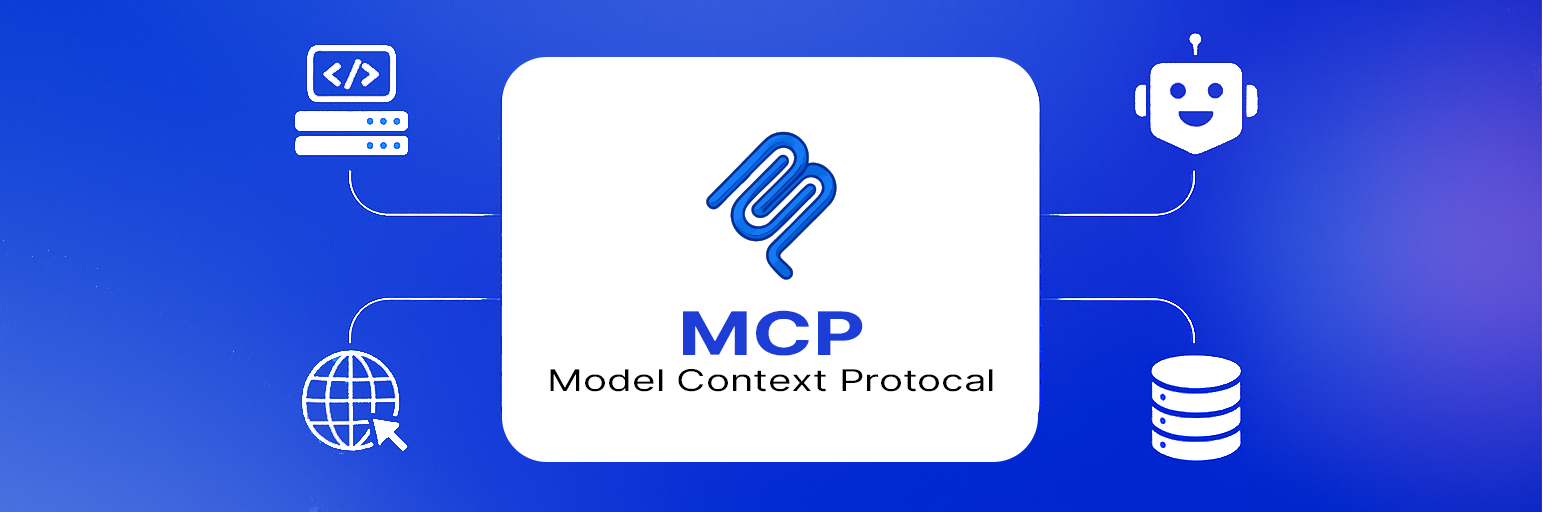
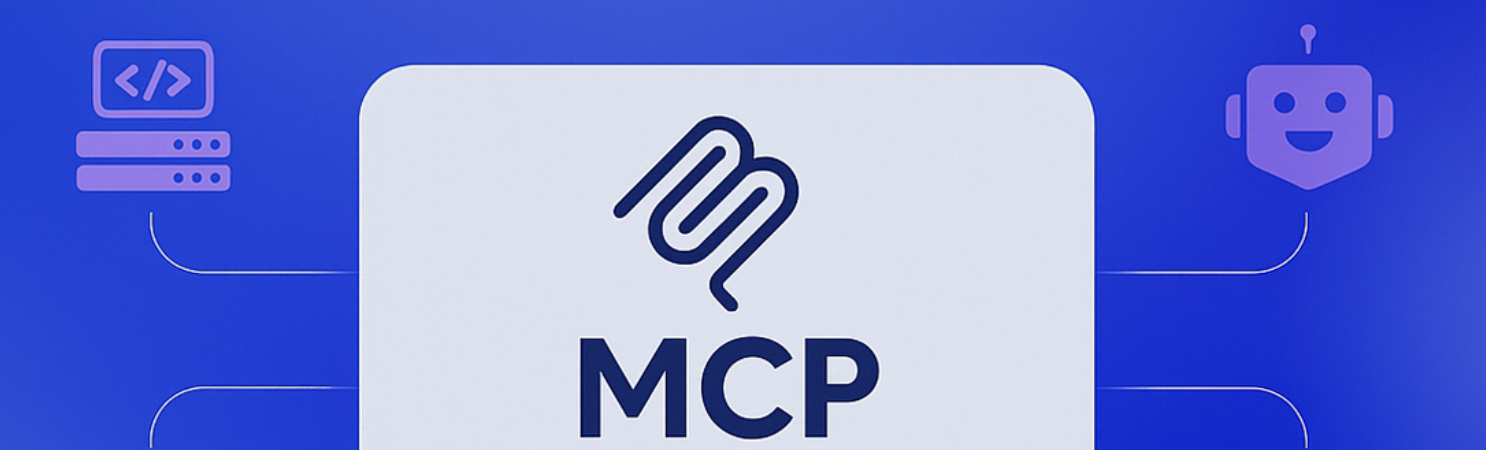
[MCP] Update Mcp Documents and Images (#21720)
* Update documentation

* Updated documentation

* Update Documentation

* doc change

* update description

* again try something

* update

* Update to "MCP Server"

diff --git a/openmetadata-ui/src/main/resources/ui/public/locales/en-US/Applications/McpApplication.md b/openmetadata-ui/src/main/resources/ui/public/locales/en-US/Applications/McpApplication.md
@@ -1,11 +1,14 @@
-# MCP Application
+# MCP Server
 
-MCP Application installs an embedded MCP Server with OpenMetadata. Clients supporting MCP Protocol can connect using SSE or Streamable-Http transports.For different transports the client can use the following endpoints:
-For different transports the client can use the following endpoints:
-1. SSE : http[s]://<openmetadata-host>/mcp/sse 
-   - This endpoint can be used by client if Streamable-Http transport is used.  
-2. Streamable-Http : http[s]://<openmetadata-host>/mcp 
-   - This endpoint can be used by client if Streamable-Http transport is used.
+MCP Server app installs an embedded Model Context Protocol(MCP) server within OpenMetadata. Clients supporting MCP Protocol can connect using SSE or Streamable-Http transports.
+ 
+   1. SSE : http[s]://openmetadata-host/mcp/sse
+ 
+    - This endpoint can be used by client if Streamable-Http transport is used.
+ 
+   2. Streamable-Http : http[s]://openmetadata-host/mcp
+ 
+    - This endpoint can be used by client if Streamable-Http transport is used.
 
 $$section
 ### Should Origin Header Be validated $(id="originValidationEnabled")
